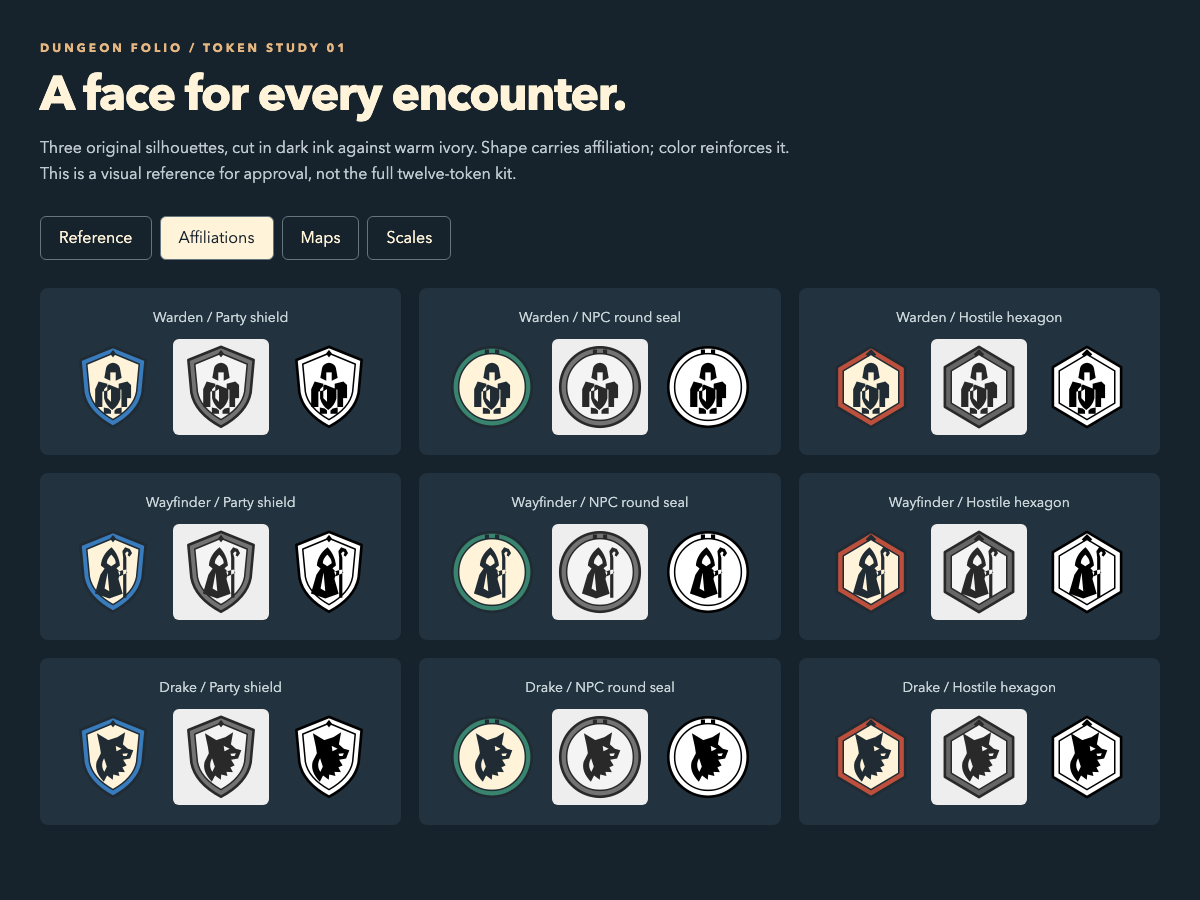
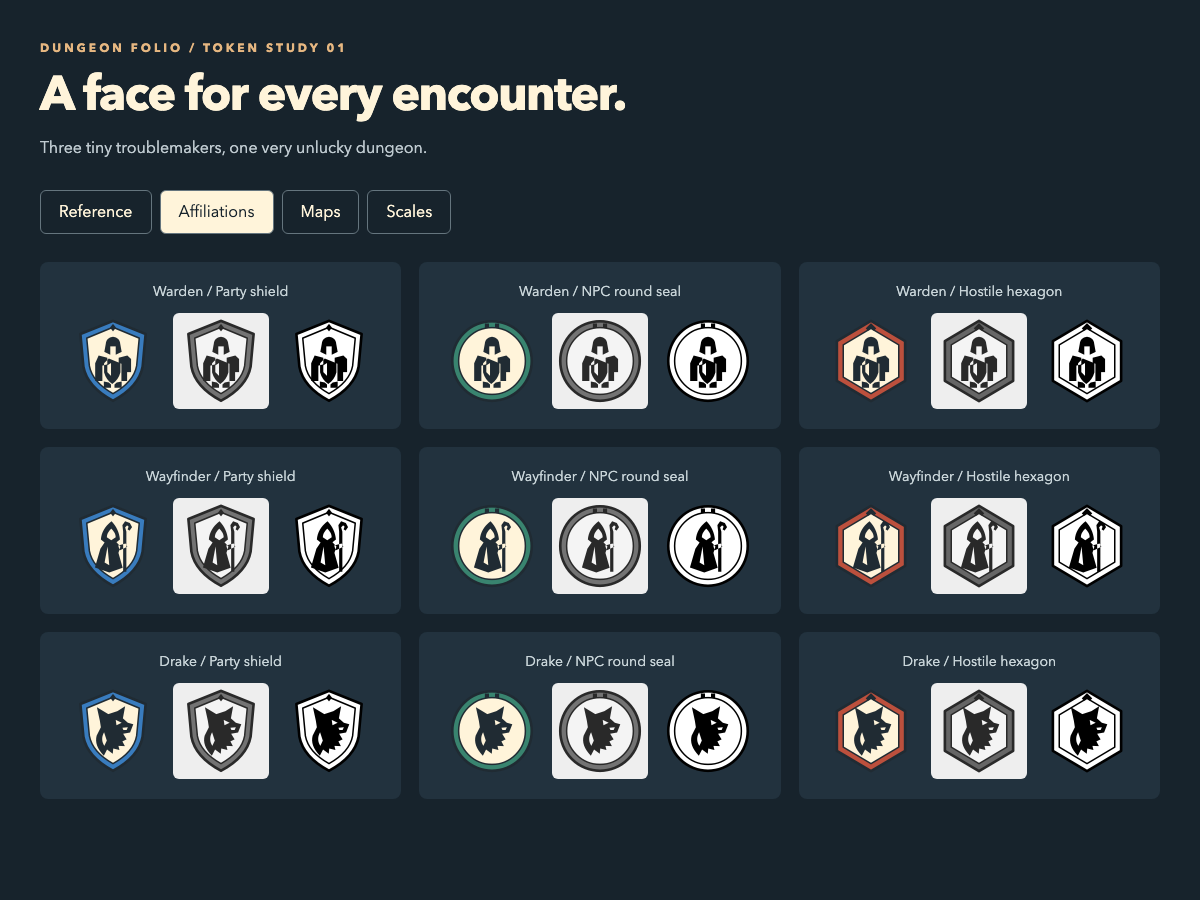
copy: shorten token review to playful one-liners

diff --git a/src/test/folioTokens.render.ts b/src/test/folioTokens.render.ts
@@ -99,7 +99,7 @@ export async function showTokenReview() {
     button{font:inherit;background:transparent;border:1px solid #65757e;border-radius:6px;padding:10px 18px;color:#fff4da;cursor:pointer}
     button[aria-pressed=true]{background:#fff4da;color:#17232c}button:focus-visible{outline:3px solid #79bcf0;outline-offset:3px}
     .cards{display:grid;grid-template-columns:repeat(3,1fr);gap:20px}.card{padding:24px;background:#22323e;border:1px solid #50616b;border-radius:12px}
-    .hero{display:flex;justify-content:center;padding:12px 0 20px}.card p{font-size:14px;min-height:68px}
+    .hero{display:flex;justify-content:center;padding:12px 0 20px}.card p{font-size:14px}
     .sizes{display:flex;gap:12px;align-items:center;margin-top:20px}.sizes span{font-size:12px;color:#bfcad0}
     .print{display:flex;align-items:center;justify-content:space-between;padding:12px;background:#fff;color:#17232c;border-radius:6px;margin-top:20px}
     figure{margin:0}figcaption{font-size:14px;margin:0 0 12px;color:#c9d5d9}.maps{display:grid;grid-template-columns:1fr 1fr;gap:24px}
@@ -107,7 +107,7 @@ export async function showTokenReview() {
     .matrix figure{padding:20px;background:#22323e;border-radius:8px;text-align:center}
     .matrix .pair{display:flex;justify-content:center;gap:12px;flex-wrap:wrap}.gray{filter:grayscale(1);background:#eee;border-radius:6px}
     .scales figure{margin:28px 0}.scales canvas{max-width:100%;height:auto}
-    @media(max-width:700px){body{padding:22px}h1{font-size:36px}.cards,.maps,.matrix{grid-template-columns:1fr}.card p{min-height:0}}
+    @media(max-width:700px){body{padding:22px}h1{font-size:36px}.cards,.maps,.matrix{grid-template-columns:1fr}}
   `;
   document.head.append(style);
   document.body.replaceChildren();
@@ -115,7 +115,7 @@ export async function showTokenReview() {
   eyebrow.className = 'eyebrow'; eyebrow.textContent = 'DUNGEON FOLIO / TOKEN STUDY 01';
   const title = document.createElement('h1'); title.textContent = 'A face for every encounter.';
   const description = document.createElement('p');
-  description.textContent = 'Three original silhouettes, cut in dark ink against warm ivory. Shape carries affiliation; color reinforces it. This is a visual reference for approval, not the full twelve-token kit.';
+  description.textContent = 'Three tiny troublemakers, one very unlucky dungeon.';
   const nav = document.createElement('nav'); nav.setAttribute('aria-label', 'Review sections');
   const sections = ['reference', 'affiliations', 'maps', 'scales'];
   for (const section of sections) {
@@ -131,9 +131,9 @@ export async function showTokenReview() {
   document.body.append(eyebrow, title, description, nav);
   const reference = document.createElement('section'); reference.id = 'reference'; reference.className = 'cards';
   const stories = [
-    'A split visor and broad shield. Solid, upright proportions keep the defender readable in a crowded room.',
-    'An open hood, traveling cloak and hooked staff. A quiet human figure for guides, travelers and spellcasters.',
-    'Swept horns, a hooked jaw and a serrated neck. An asymmetric creature profile, not another humanoid badge.',
+    'Brings a shield to every argument.',
+    'Definitely knows a shortcut.',
+    'Small token, big fire hazard.',
   ];
   FOLIO_TOKENS.forEach((icon, index) => {
     const card = document.createElement('article'); card.className = 'card';
